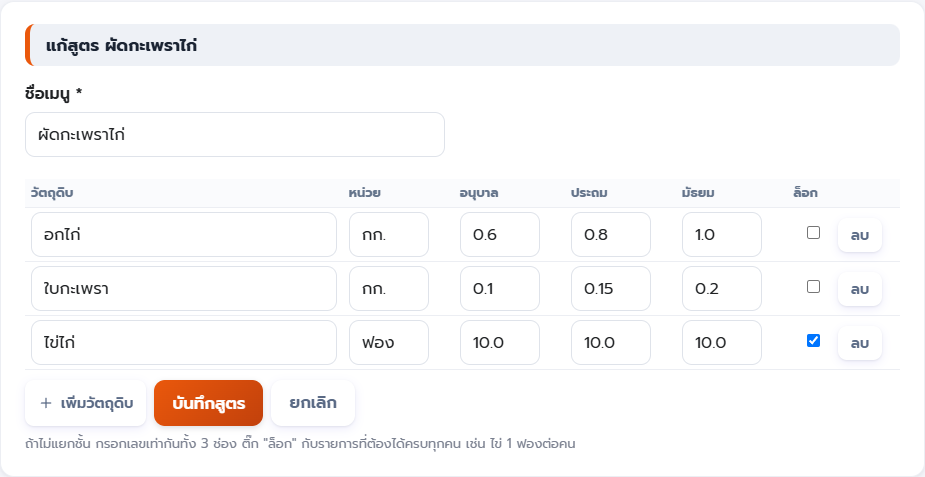
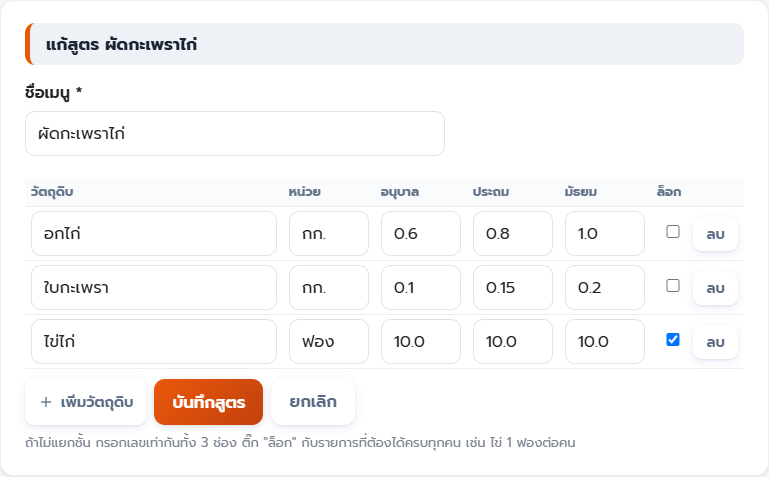
Search: recipes, shopping list, student accounts; guide shots from real pages

diff --git a/app/services/search.py b/app/services/search.py
@@ -51,6 +51,8 @@ PAGES = [
     ('เรื่องพัสดุที่ทำก่อนเริ่มใช้ระบบและจ่ายไปแล้ว', '/finance/paid-before', 'finance', 'จ่ายแล้วก่อนเริ่มใช้ระบบ'),
     ('อาหารกลางวัน', '/lunch', 'lunch', 'อาหาร'),
     ('ตั้งค่าอาหารกลางวัน', '/lunch/setup', 'lunch', 'วัตถุดิบ แม่ครัว'),
+    ('สูตรอาหาร คำนวณวัตถุดิบ', '/lunch/recipes', 'lunch', 'สูตร คำนวณ วัตถุดิบ ปริมาณ จำนวนนักเรียน'),
+    ('ใบซื้อของรายสัปดาห์', '/lunch/shopping', 'lunch', 'ซื้อของ ตลาด รายการซื้อ'),
     ('หน้าหลักงานบุคคล', '/hr', 'hr', 'บุคลากร'),
     ('คำขอลา', '/hr/leave-requests', 'hr', 'ใบลา ลาป่วย ลากิจ'),
     ('คำขอไปราชการ', '/hr/travel-requests', 'hr', 'ไปราชการ'),
@@ -66,6 +68,7 @@ PAGES = [
     ('แผนการสอน', '/academic/lesson-plans', 'academic', 'แผน'),
     ('นิเทศภายใน', '/academic/supervision', 'academic', 'นิเทศ'),
     ('บัญชีครู', '/academic/teacher-accounts', 'academic', 'ไอดีครู'),
+    ('บัญชีนักเรียน', '/academic/student-accounts', 'academic', 'ไอดีนักเรียน บัตรล็อกอิน เผยแพร่คะแนน'),
     ('งานบริหารทั่วไป', '/general', None, ''),
     ('บันทึกการเข้าแถว', '/general/assembly', None, 'เข้าแถว เช็คชื่อ มาเรียน ครูประจำชั้น'),
     ('โครงการ/แผนงบ', '/projects', None, 'โครงการ แผนปฏิบัติการ'),

diff --git a/app/routers/lunch.py b/app/routers/lunch.py
@@ -282,6 +282,24 @@ def nutrition_page(request: Request, db: Session = Depends(get_db), year: str = 
 
 
 # ---------------- รายละเอียดโครงการ + บัญชีรับ-จ่าย ----------------
+def _latest_pid(db):
+    p = db.query(LunchProgram).order_by(LunchProgram.year.desc(), LunchProgram.id.desc()).first()
+    return p.id if p else None
+
+
+@router.get("/lunch/recipes")
+def recipes_latest(db: Session = Depends(get_db)):
+    """ทางลัดจากช่องค้นหา: เปิดสูตรอาหารของโครงการล่าสุด"""
+    pid = _latest_pid(db)
+    return RedirectResponse(f"/lunch/{pid}/recipes" if pid else "/lunch", status_code=303)
+
+
+@router.get("/lunch/shopping")
+def shopping_latest(db: Session = Depends(get_db)):
+    pid = _latest_pid(db)
+    return RedirectResponse(f"/lunch/{pid}/shopping" if pid else "/lunch", status_code=303)
+
+
 @router.get("/lunch/{pid}", response_class=HTMLResponse)
 def lunch_detail(pid: int, request: Request, db: Session = Depends(get_db)):
     prog = db.get(LunchProgram, pid)

diff --git a/tests/test_lunch_recipe.py b/tests/test_lunch_recipe.py
@@ -40,3 +40,9 @@ def test_recipe_calc_fill_and_shopping(env):
     page = env.get(f'/lunch/{pid}/shopping?w=14/12/2569')
     assert page.status_code == 200 and 'อกไก่' in page.text and '8.5' in page.text
     assert env.get(f'/lunch/{pid}/ingredients').status_code == 200
+
+
+def test_search_shortcuts_open_latest_program(env):
+    x = _prep(env)
+    assert env.get('/lunch/recipes', follow_redirects=False).headers['location'] == f"/lunch/{x['pid']}/recipes"
+    assert env.get('/lunch/shopping', follow_redirects=False).headers['location'] == f"/lunch/{x['pid']}/shopping"
